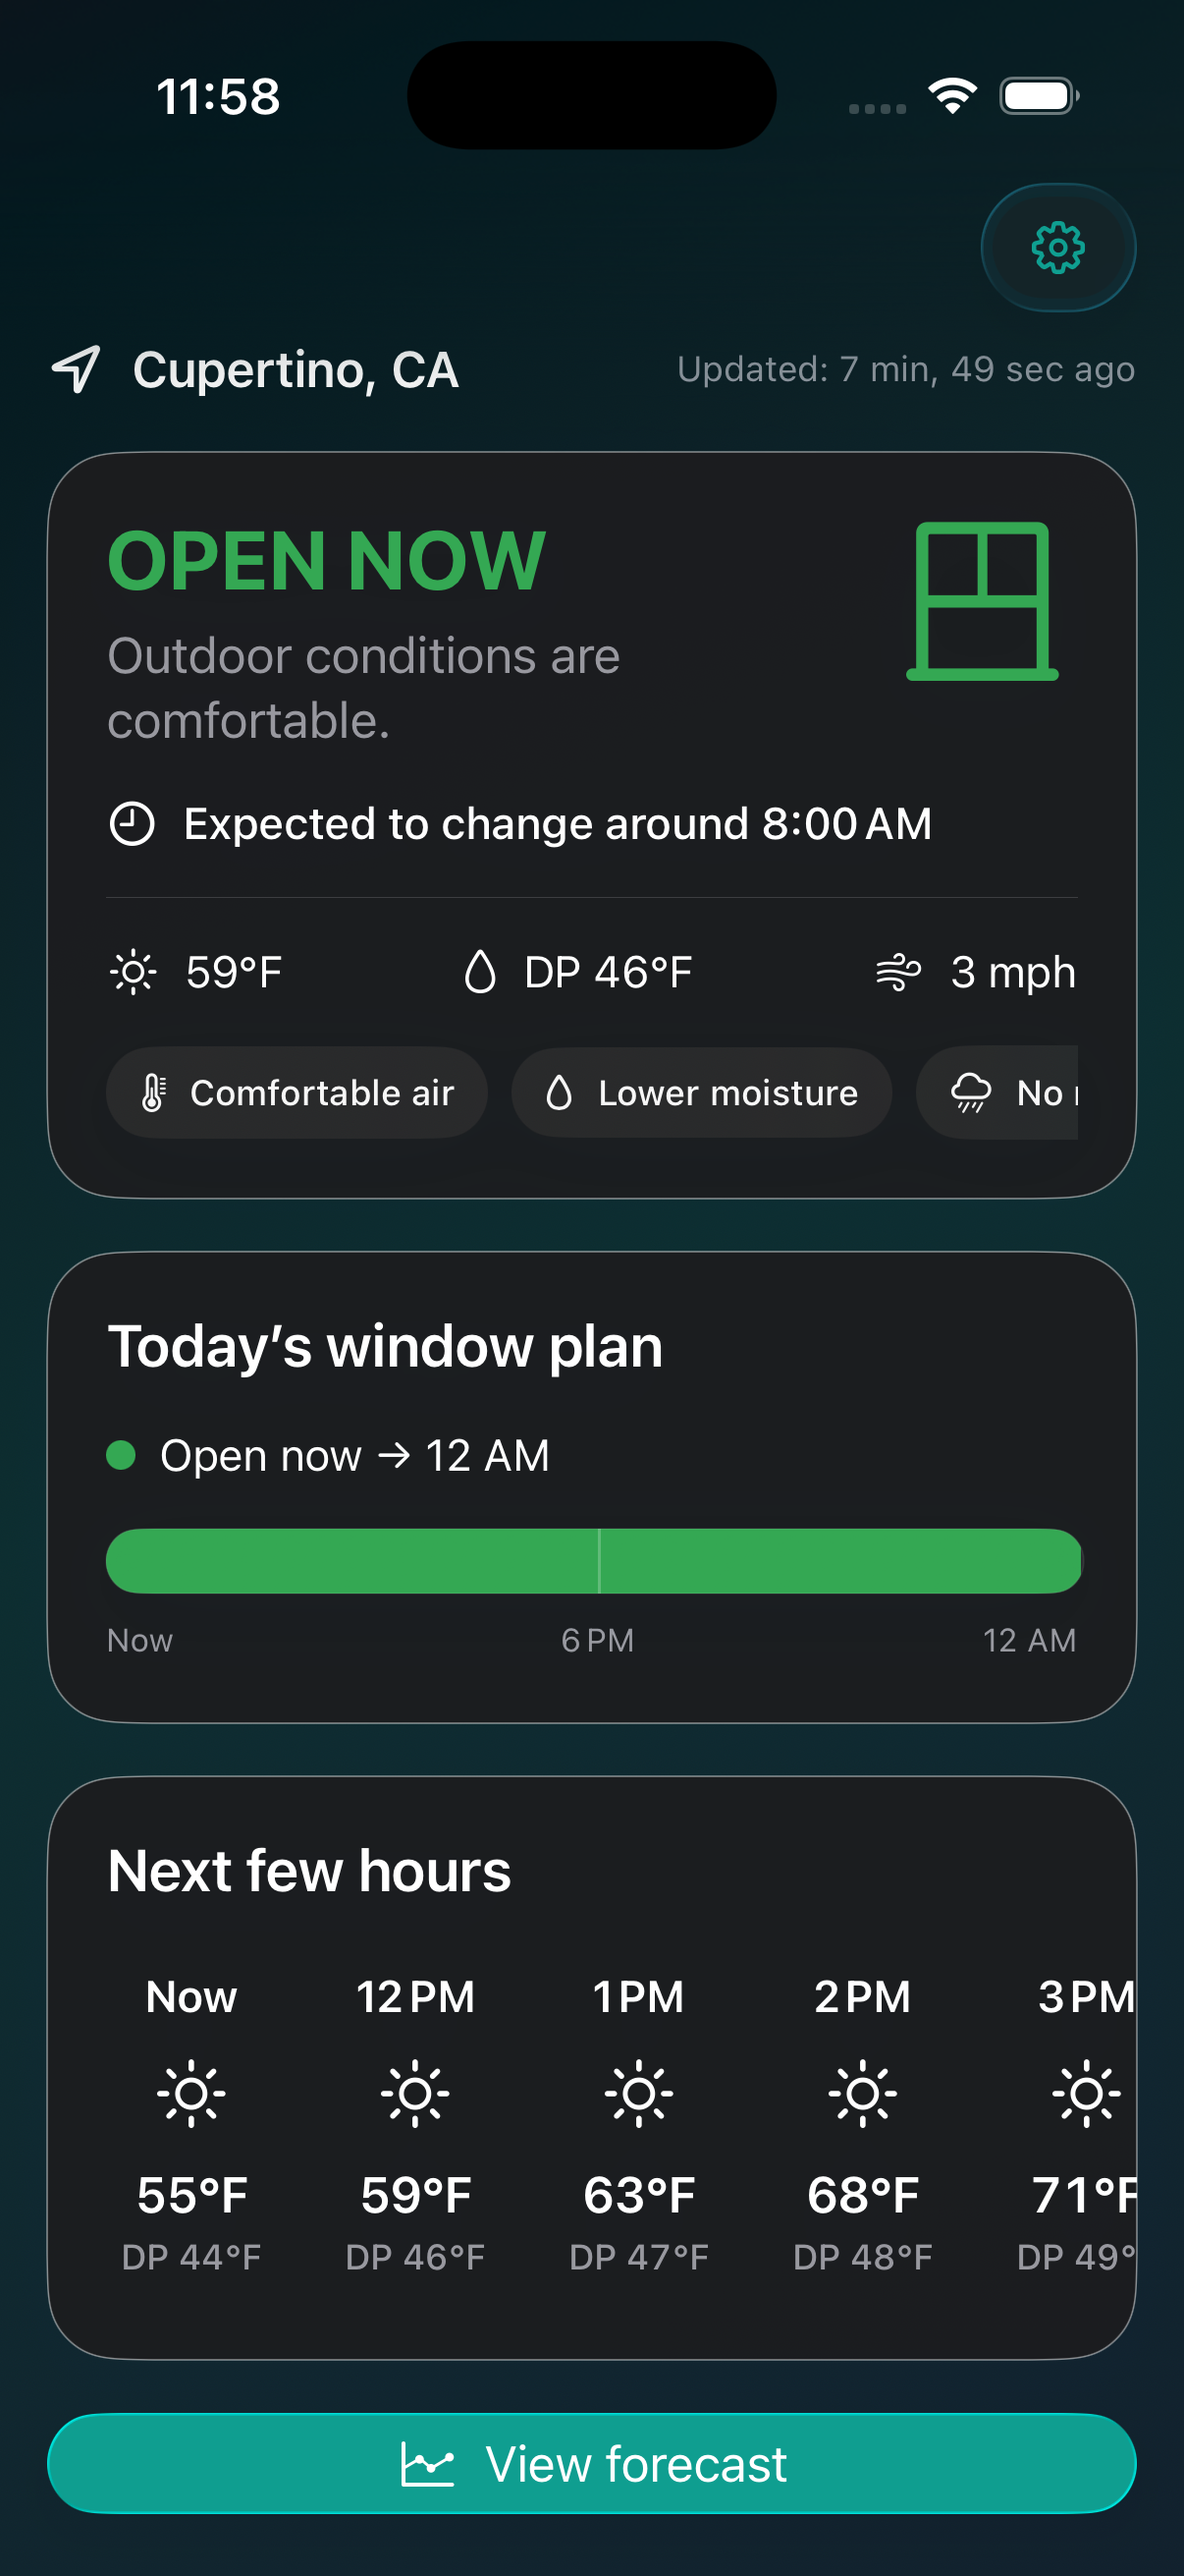
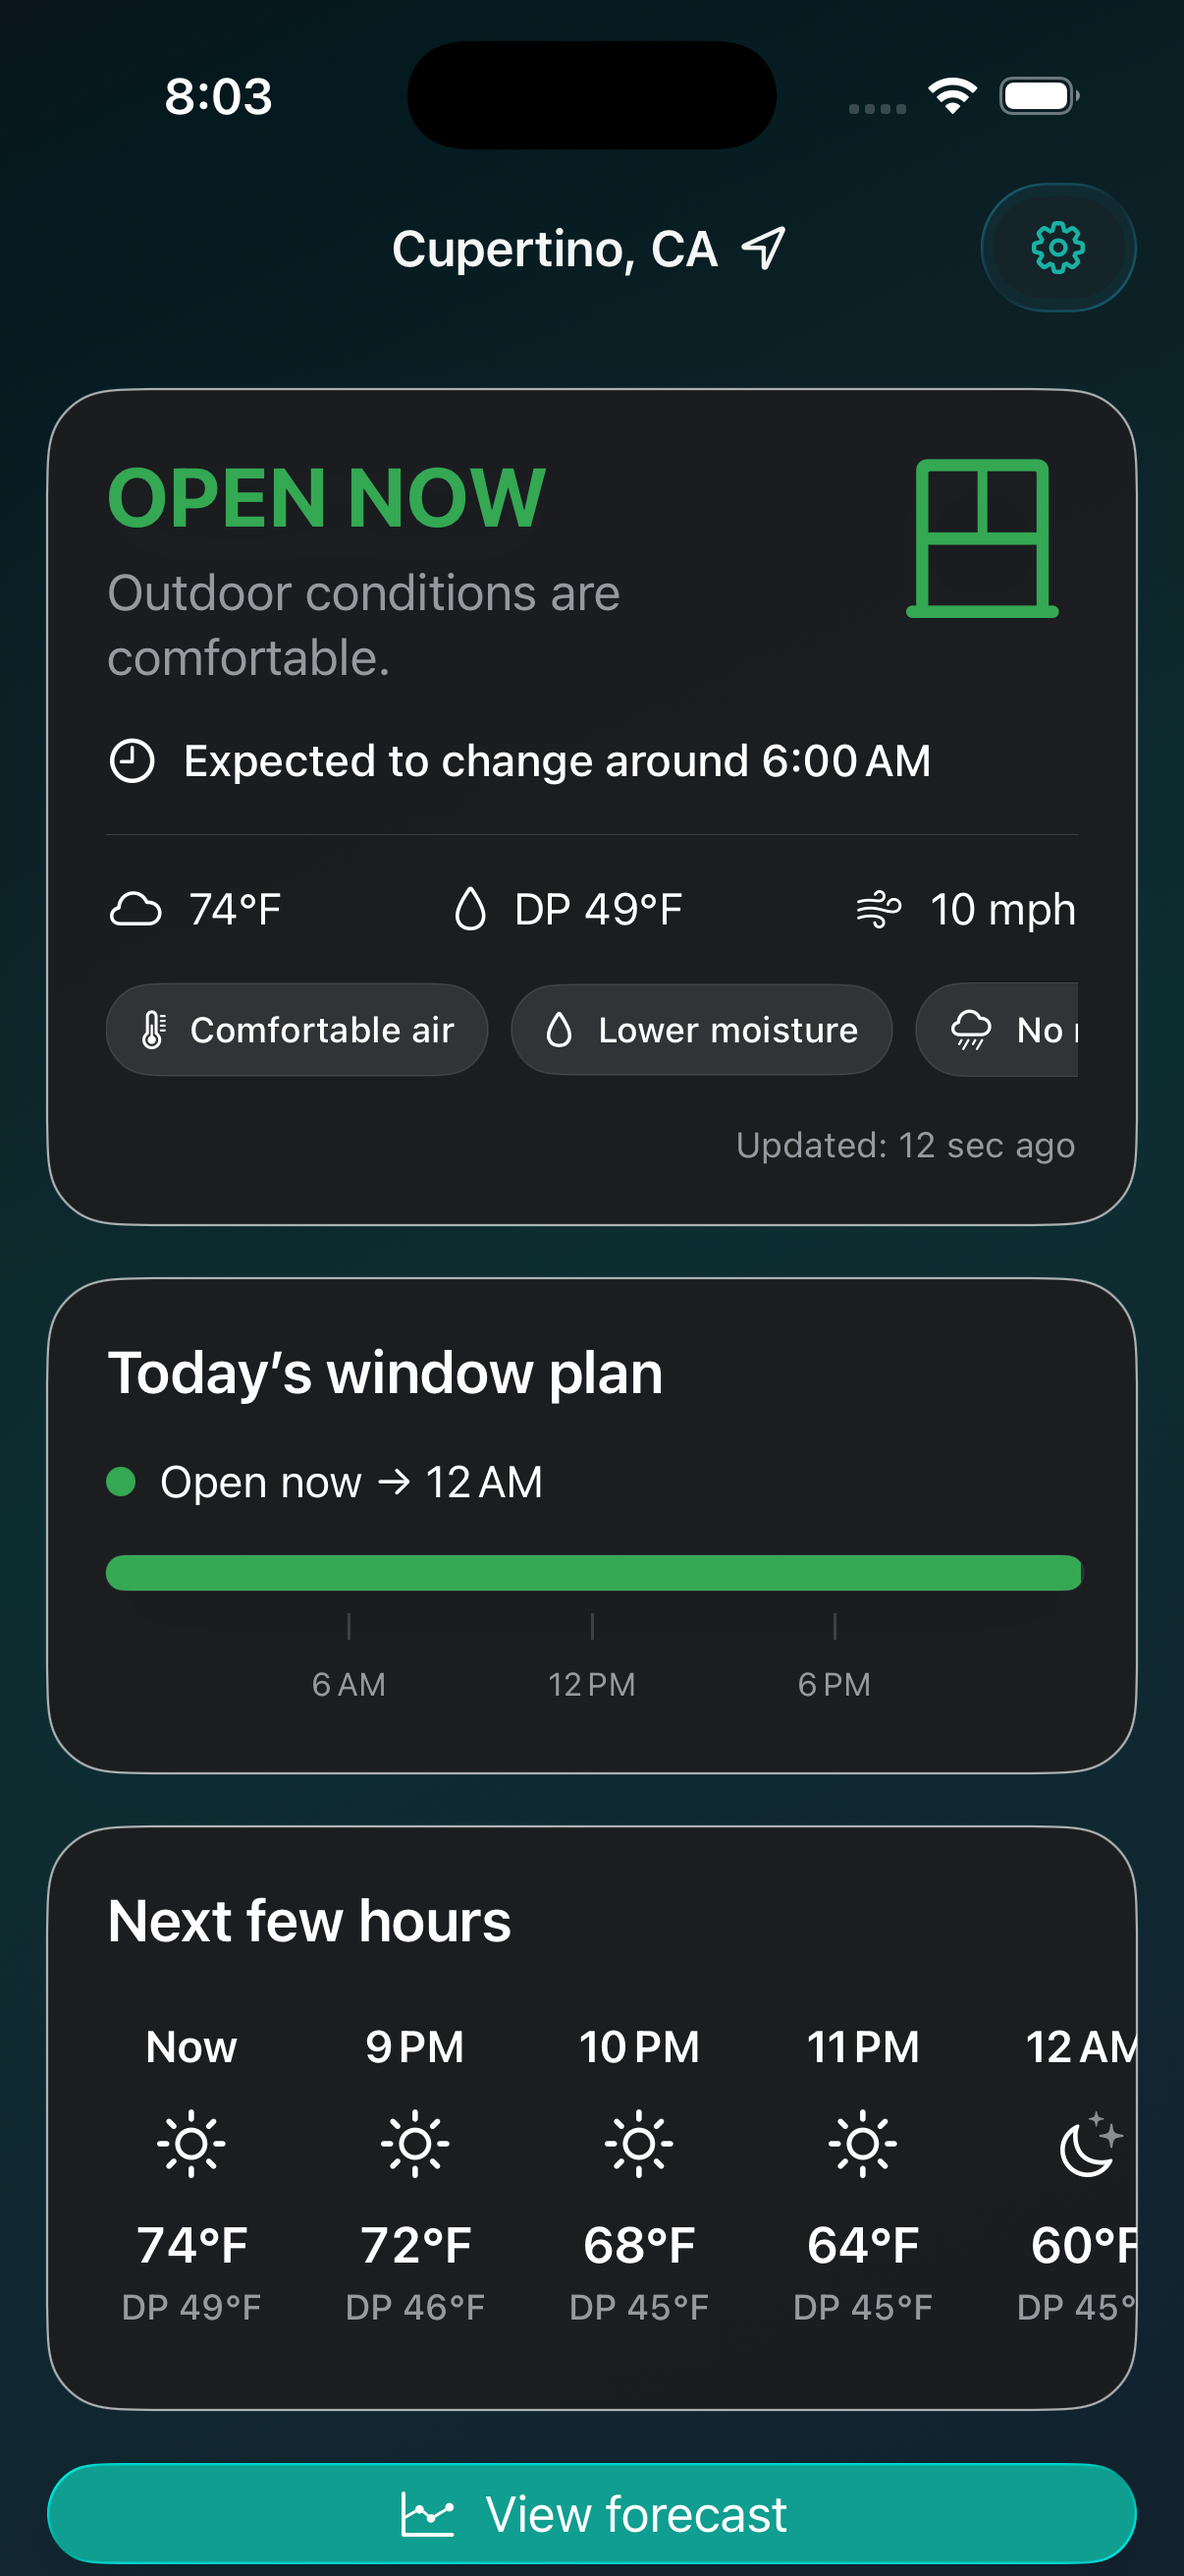
update README screenshots and refresh docs assets

diff --git a/README.md b/README.md
@@ -14,6 +14,9 @@ OpenAir is an iOS 26 SwiftUI app that recommends when outdoor temperature, dew p
 <p>
   <img src="doc/resources/openair-dashboard.png" alt="OpenAir dashboard showing current window recommendation" width="300" />
   <img src="doc/resources/openair-forecast.png" alt="OpenAir forecast showing 48-hour window outlook" width="300" />
+  <img src="doc/resources/openair-hourly-detail.png" alt="OpenAir showing hourly detail" width="300" />
+  <img src="doc/resources/openair-settings-1.png" alt="OpenAir settings 1" width="300" />
+  <img src="doc/resources/openair-settings-2.png" alt="OpenAir settings 2" width="300" />
 </p>
 
 ## Features
